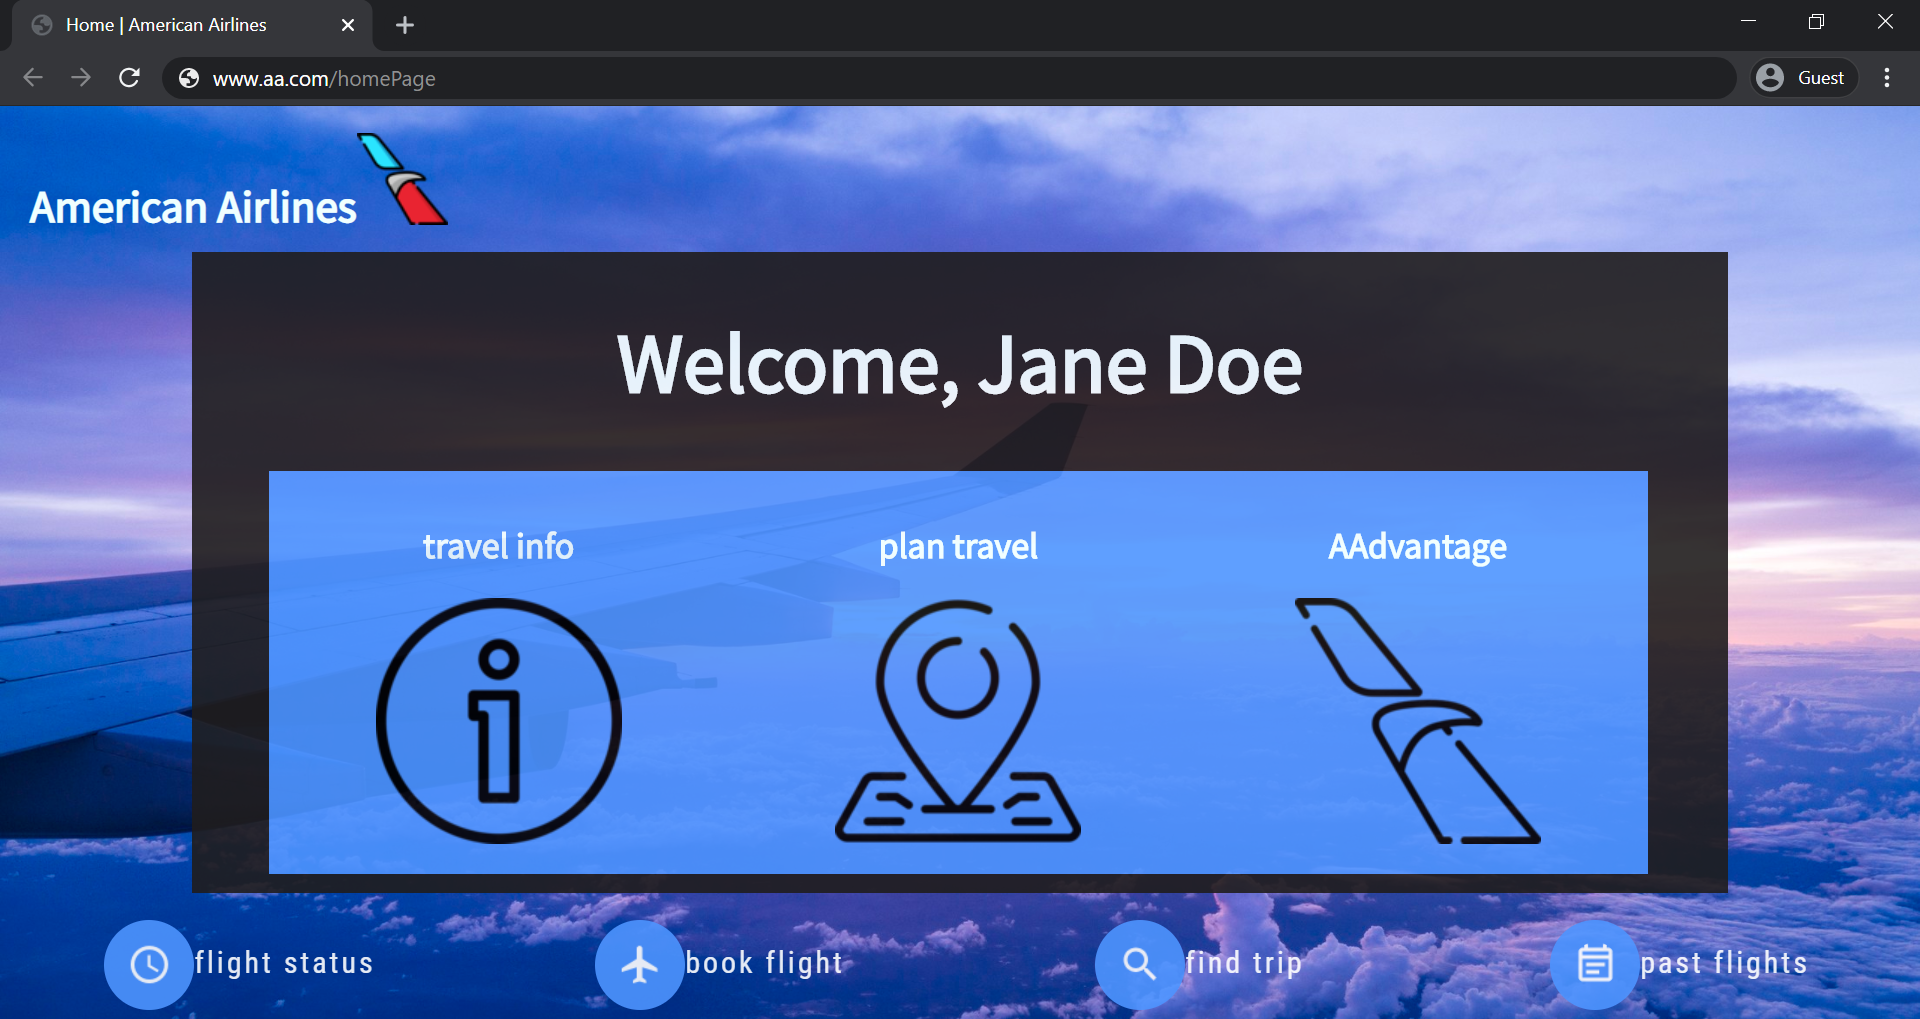
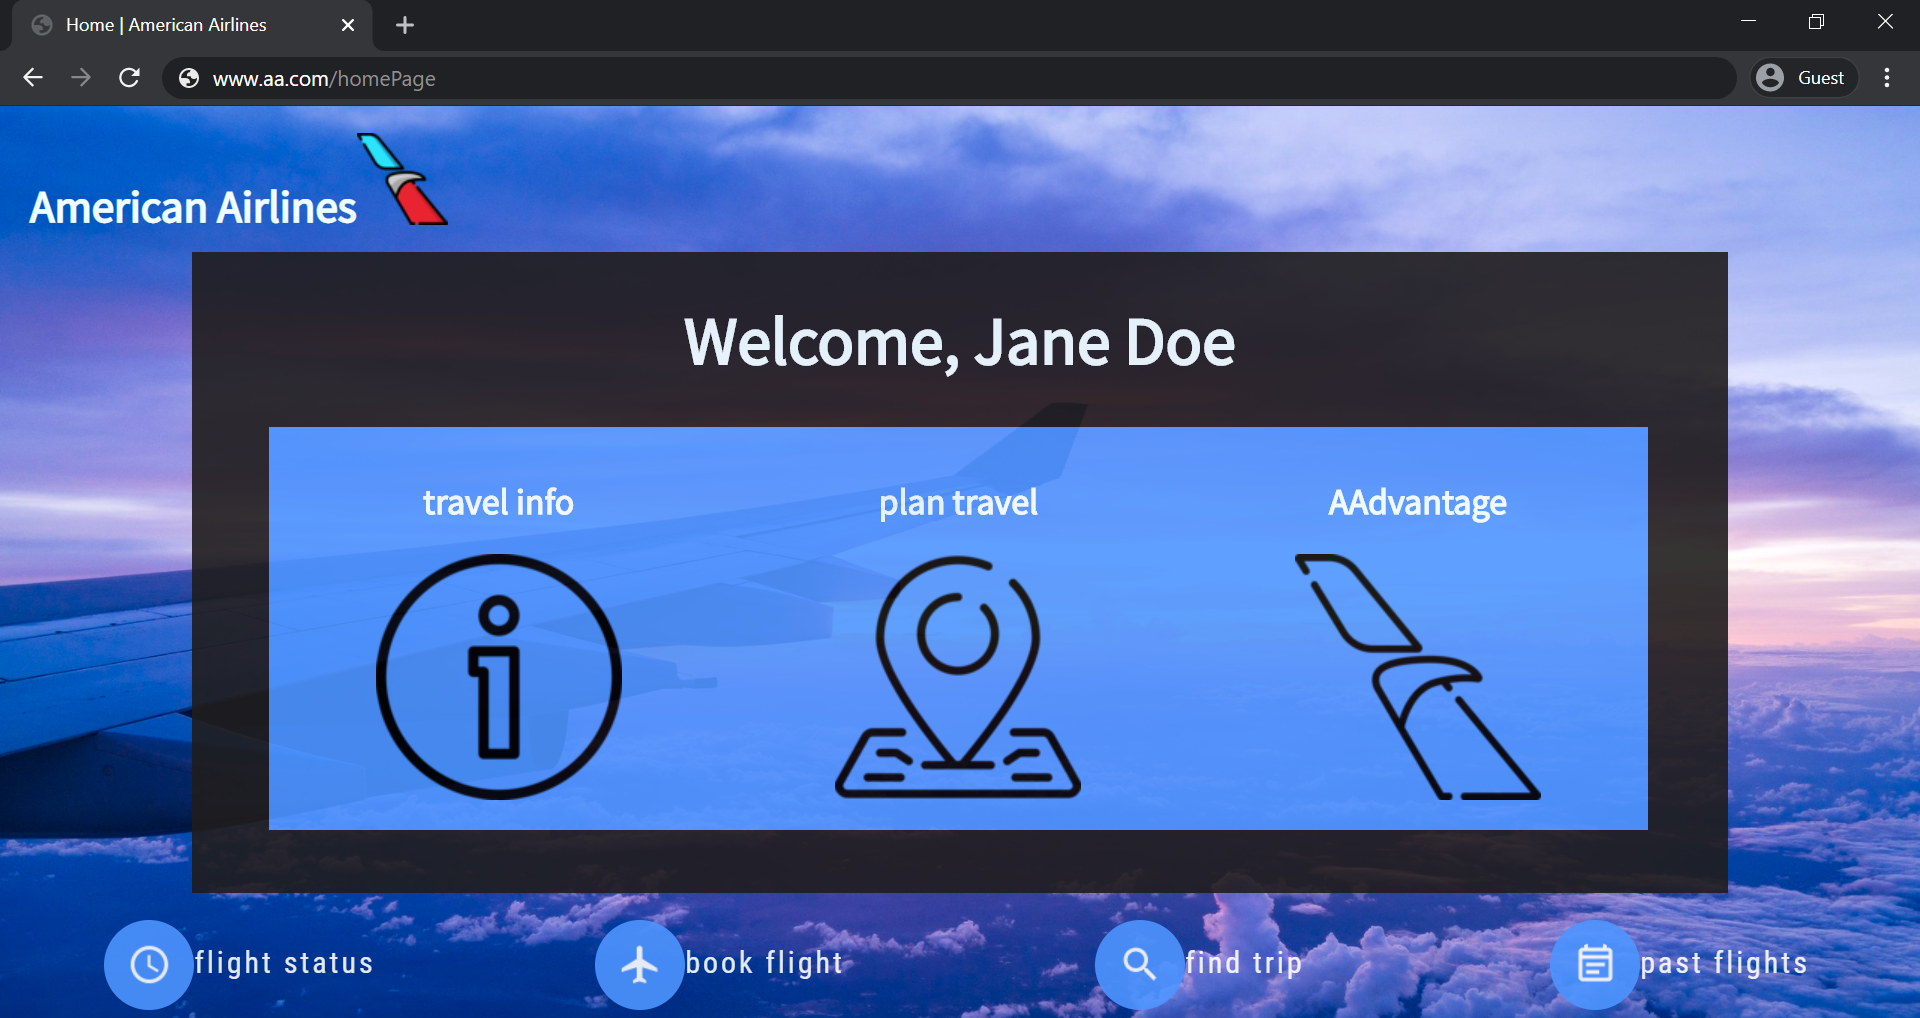
update website

Changed region(s): [[0.125, 0.3045, 0.875, 0.8831], [0.8125, 0.9136, 0.8438, 0.9745], [0.0625, 0.944, 0.0938, 0.9745]]

diff --git a/index.html b/index.html
@@ -24,7 +24,7 @@
 
   <div class="rectangle">
     <center>
-      <h1>Welcome, Jane Doe</h1>
+      <h1 style="font-size: 45px">Welcome, Jane Doe</h1>
          
       <div class="row">
         <div class="column" >
